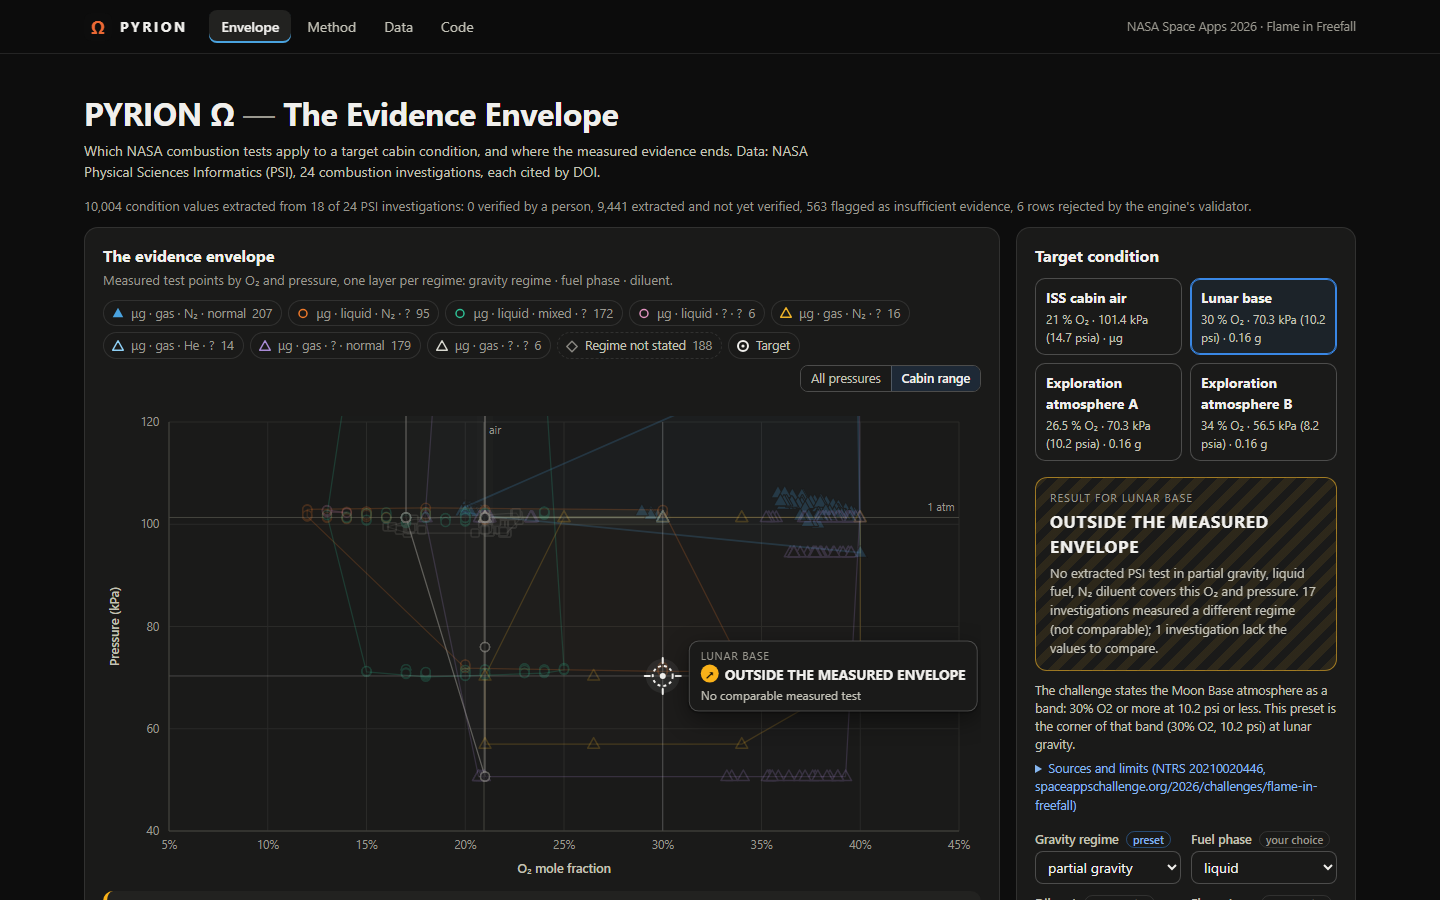
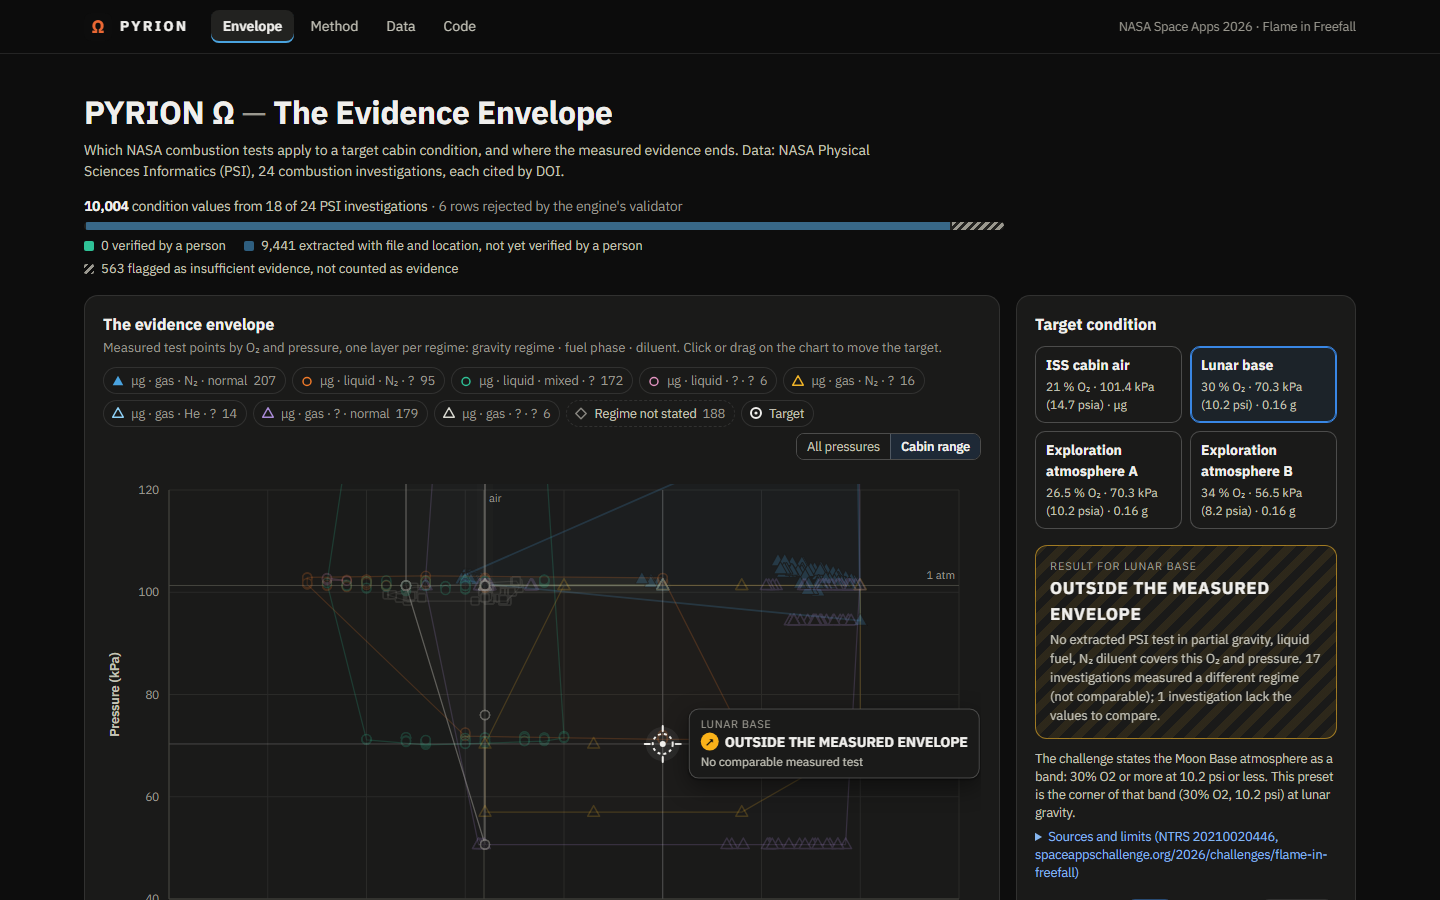
web: whole envelope fits a 1440x900 capture

diff --git a/web/app/globals.css b/web/app/globals.css
@@ -1241,3 +1241,10 @@ input[type="range"] {
 .es-flag { background: repeating-linear-gradient(135deg, var(--muted) 0 3px, transparent 3px 6px); }
 .es-legend { display: flex; flex-wrap: wrap; gap: 4px 18px; list-style: none; margin: 6px 0 0; padding: 0; color: var(--ink-2); }
 .es-legend i { display: inline-block; width: 10px; height: 10px; border-radius: 2px; vertical-align: -1px; margin-right: 4px; }
+.hero { margin-top: 14px; margin-bottom: 8px; }
+.hero h1 { margin-bottom: 4px; }
+.evidence-status { margin: 6px 0 12px; display: grid; grid-template-columns: auto 1fr; column-gap: 16px; align-items: center; max-width: none; }
+.es-head { margin: 0; white-space: nowrap; }
+.es-bar { grid-column: 2; }
+.es-legend { grid-column: 1 / -1; margin-top: 4px; }
+@media (max-width: 800px) { .evidence-status { grid-template-columns: 1fr; } .es-bar { grid-column: 1; } .es-head { white-space: normal; } }

diff --git a/web/app/page.tsx b/web/app/page.tsx
@@ -40,12 +40,10 @@ export default async function Page() {
               <i className="es-ver" /> {s.verified.toLocaleString("en-US")} verified by a person
             </li>
             <li>
-              <i className="es-ext" /> {(s.records - s.verified - s.flagged).toLocaleString("en-US")} extracted with file and
-              location, not yet verified by a person
+              <i className="es-ext" /> {(s.records - s.verified - s.flagged).toLocaleString("en-US")} extracted with file and location, not yet verified
             </li>
             <li>
-              <i className="es-flag" /> {s.flagged.toLocaleString("en-US")} flagged as insufficient evidence, not counted
-              as evidence
+              <i className="es-flag" /> {s.flagged.toLocaleString("en-US")} flagged insufficient, not counted
             </li>
           </ul>
         </div>

diff --git a/web/components/EnvelopeChart.tsx b/web/components/EnvelopeChart.tsx
@@ -156,7 +156,7 @@ function EnvelopeChart({ envelopes, colors, layerState, target, targetLabel, sta
   }, []);
 
   // Fits a laptop screen: never taller than ~60% of the window, so chart and target panel share the first view.
-  const height = Math.round(Math.max(320, Math.min(540, width * 0.6, viewportH * 0.6)));
+  const height = Math.round(Math.max(320, Math.min(540, width * 0.6, viewportH * 0.54)));
   const iw = width - M.left - M.right;
   const ih = height - M.top - M.bottom;
 
